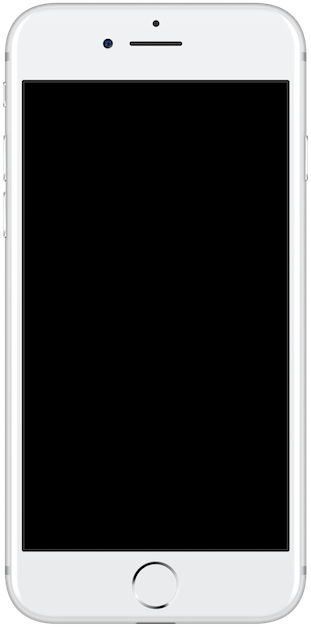
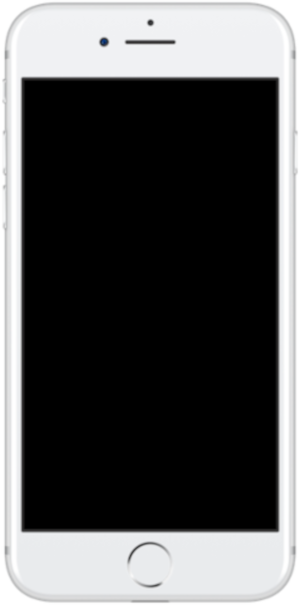
JavaScript e HTML&CSS

diff --git a/javascript/exercicios/aula17ex/ex017/modelo/script.js b/javascript/exercicios/aula17ex/ex017/modelo/script.js
@@ -1,45 +1,68 @@
-function adicionar() {
-    var num = document.getElementById('txtnum')
-    var lista = document.getElementById('lista')
-    var valor = Number(num.value)
+let num = document.querySelector('input#fnum')
+let lista = document.querySelector('select#flista')
+let res = document.querySelector('div#res')
+let valores = []
 
-    if (valor >= 1 && valor <= 100) {
-        var option = document.createElement('option')
-        option.text = valor
-        lista.add(option)
-        num.value = ''
-        num.focus()
+function isNumero(n) {
+    if (Number(n) >= 1 && Number(n) <= 100) {
+        return true
     } else {
-        alert('Por favor, insira um número entre 1 e 100.')
+        return false
     }
 }
 
+function inLista(n, l) {
+    if (l.indexOf(Number(n)) != -1) {
+        return true
+    } else {
+        return false
+    }
+}
+
+function adicionar() {
+     if (isNumero(num.value) && !inLista(num.value, valores)) {
+        valores.push(Number(num.value))
+        let item = document.createElement('option')
+        item.text = `Valor ${num.value} adicionado.`
+        lista.appendChild(item)
+        res.innerHTML = ''
+     } else {
+        window.alert('Valor inválido ou já encontrado na lista.')
+     }
+
+     num.value = ''
+     num.focus()
+}
+
 function finalizar() {
-    var lista = document.getElementById('lista')
-    var res = document.getElementById('res')
+    if (valores.length == 0) {
+        window.alert('Adicione valores antes de finalizar!')
+    } else {
+        let tot = valores.length
+        let maior = valores[0]
+        let menor = valores[0]
+        let soma = 0
+        let media = 0
+        
+        for(let pos in valores) {
+            soma += valores[pos]
 
-    if (lista.length == 0) {
-        alert('Adicione valores antes de finalizar.')
-        return
+             if(valores[pos] > maior) {
+                maior = valores[pos]
+             }
+
+             if (valores[pos] < menor) {
+                menor = valores[pos]
+             }
+        }
+        media = soma / tot
+
+        res.innerHTML = ''
+        res.innerHTML += `<p>Ao todo, temos ${tot} números cadastrados.</p>`
+        res.innerHTML += `<p>O maior valor informado foi ${maior}.</p>`
+        res.innerHTML += `<p>O menor valor informado foi ${menor}.</p>`
+        res.innerHTML += `<p>Somando todos os valores, temos ${soma}.</p>`
+        res.innerHTML += `<p>A media dos valores digitados é ${media}.</p>`
+
     }
-
-    var total = 0
-    var valores = []
-    for (var i = 0; i < lista.length; i++) {
-        var val = Number(lista.options[i].text)
-        valores.push(val)
-        total += val
-    }
-
-    var qtd = valores.length
-    var maior = Math.max.apply(null, valores)
-    var menor = Math.min.apply(null, valores)
-    var media = total / qtd
-
-    res.innerHTML = ''
-    res.innerHTML += `<p>Ao todo, temos ${qtd} números cadastrados.</p>`
-    res.innerHTML += `<p>O maior valor informado foi ${maior}.</p>`
-    res.innerHTML += `<p>O menor valor informado foi ${menor}.</p>`
-    res.innerHTML += `<p>Somando todos os valores, temos ${total}.</p>`
-    res.innerHTML += `<p>A média dos valores digitados é ${media}.</p>`
 }

diff --git a/javascript/exercicios/aula17ex/ex017/modelo/modelo.html b/javascript/exercicios/aula17ex/ex017/modelo/modelo.html
@@ -5,7 +5,7 @@
     <meta name="viewport" content="width=device-width, initial-scale=1.0">
     <link rel="shortcut icon" href="../../../favicon-doge.ico" type="image/x-icon">
     <link rel="stylesheet" href="estilo.css">
-    <title>Modelo de Exercício</title>
+    <title>Analisador de Números</title>
 </head>
 <body>
     <header>
@@ -13,17 +13,14 @@
     </header>
     <section>
         <div>
-            Número (entre 1 e 100): <input type="number" name="txtnum" id="txtnum" min="1" max="100" >
-            <input type="button" value="Adicionar"  onclick="adicionar()">
-        </div>
-        <div>
-            <select name="lista" id="lista" size="10" style="width: 200px;">
-               
-            </select>
-            <input type="button" value="Finalizar" id="btnFinalize" style="display: block; margin-top: 20px;" onclick="finalizar()">
+            Número (entre 1 e 100): 
+            <input type="number" name="fnum" id="fnum">
+            <input type="button" value="Adicionar" onclick="adicionar()">
+            <br><br><select name="flista" id="flista" size="6"></select>
+            <br><input type="button" value="Finalizar" onclick="finalizar()">
         </div>
         <div id="res">
-            <!-- Resultado -->
+        
         </div>
     </section>
     <footer>

diff --git a/html-css/desafios/d014/estilos/style.css b/html-css/desafios/d014/estilos/style.css
@@ -1,0 +1,36 @@
+@charset "UTF-8";
+
+* {
+    margin: 0px;
+    padding: 0px;
+    font-family: Arial, Helvetica, sans-serif;
+}
+
+html, body {
+    height: 100vh;
+    width: 100vw;
+    
+}
+
+body {
+    background: url('../imagens/fundo-madeira.jpg') no-repeat top center;
+    background-size: cover;
+    background-attachment: fixed;
+}
+
+main {
+    position: relative;
+    height: 100vh;
+    
+}
+
+section#telefone {
+    position: absolute;
+    top: 50%;
+    left: 50%;
+    transform: translate(-50%, -50%);
+
+    height: 627px;
+    width: 311px;
+    background: url('../imagens/frame-iphone.png') no-repeat;
+}

diff --git a/html-css/desafios/d014/index.html b/html-css/desafios/d014/index.html
@@ -4,9 +4,17 @@
     <meta charset="UTF-8">
     <meta name="viewport" content="width=device-width, initial-scale=1.0">
     <link rel="shortcut icon" href="../../../favicon-doge.ico" type="image/x-icon">
+    <link rel="stylesheet" href="estilos/style.css">
     <title>Projeto Redes Sociais</title>
 </head>
 <body>
-    
+    <main>
+        <section id="telefone">
+
+        </section>
+        <section id="redes_sociais">
+
+        </section>
+    </main>
 </body>
 </html>

diff --git a/javascript/exercicios/aula17ex/ex017/modelo/estilo.css b/javascript/exercicios/aula17ex/ex017/modelo/estilo.css
@@ -17,6 +17,10 @@ section {
     box-shadow: 3px 3px 10px rgba(0, 0, 0, 0.37);
 }
 
+select#flista {
+    width: 150px;
+}
+
 #txtnum {
     width: 150px; 
     margin-bottom: 20px;
